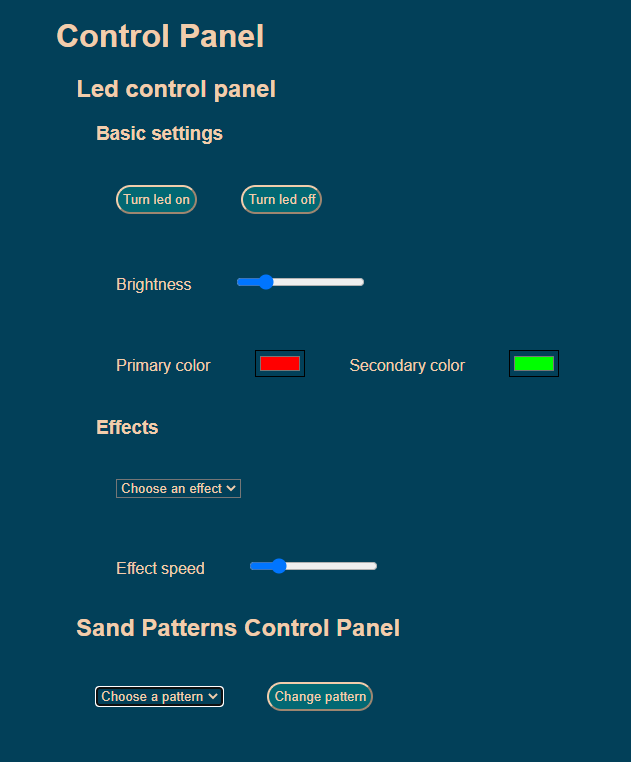
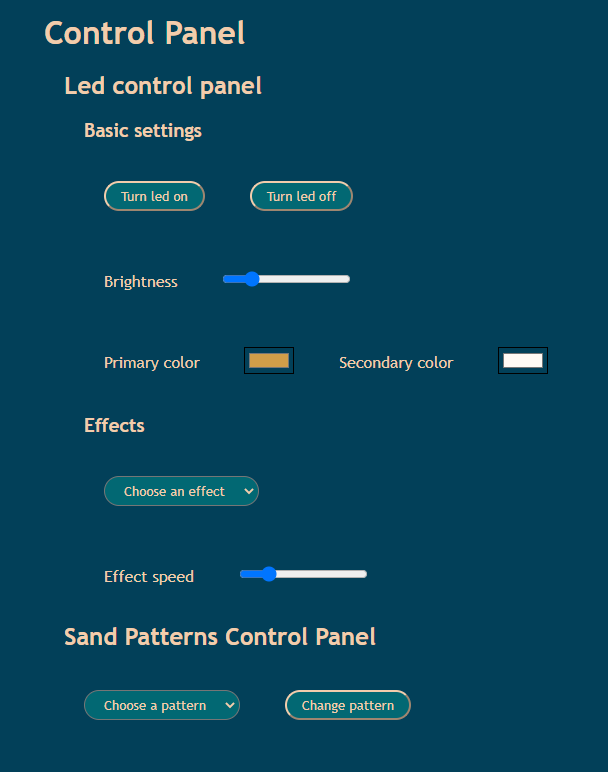
added docker documentation

diff --git a/webinterface/static/client/script.js b/webinterface/static/client/script.js
@@ -4,7 +4,7 @@
 let ledStatus = document.getElementById('led-status');
 let ledButton = document.getElementById('switch-led');
 
-const url = "http://172.16.103.49/"
+const url = "http://172.16.103.132/"
 var brightness_slider = document.getElementById("brightness");
 var brightness = brightness_slider.value;
 
@@ -57,13 +57,13 @@ $.each(patternOptions, function(i){
 });
 
 function setupLed(){
-    const setup_url = url + "win&T=1&A=50&CL=hFF0000&C2=h00FF00&FX=0&SX=50";
+    const setup_url = url + "win&T=1&A=50&CL=hFF0000&C2=h00FF00&FX=0&SX=50&S2=78";
     axios.get(setup_url);
 
 }
 
 function turnLedOn(){
-    const new_url = url + "win&T=1";
+    const new_url = url + "win&T=1&S2=78";
     axios.get(new_url);
 }
 

diff --git a/webinterface/static/client/css/style.css b/webinterface/static/client/css/style.css
@@ -2,12 +2,12 @@
     background-color: #024059;
     color: #F2CDAC;
     margin: 20px;
-    font-family: "Helvetica";
+    font-family: "Trebuchet MS";
 }
 
 button {
     border-radius: 2em;
-    padding: 5px;
+    padding: 5px 15px 5px 15px;
     background-color: #026873;
     border-color:#F2CDAC;
 }
@@ -28,4 +28,11 @@ button:hover {
     flex-direction: row;
     width: 50%;
     justify-self: right;
+}
+
+#options, #sand-pattern-options {
+    border-radius: 2em;
+    padding: 5px 15px 5px 15px;
+    background-color: #026873;
+
 }

diff --git a/webinterface/server/main.py b/webinterface/server/main.py
@@ -9,11 +9,11 @@ from fastapi.staticfiles import StaticFiles
 from fastapi.middleware.cors import CORSMiddleware
 from fastapi.staticfiles import StaticFiles
 import sys
-from vives-sandtable_package_zend import Sender
+#from vives-sandtable_package_zend import Sender
 
 # from pi_code.python.sender import *
 
-#from sendLib import sender 
+#from sendLib im port sender 
 
 sender = Sender()
 
@@ -48,19 +48,19 @@ def read_item(item_id: int, q: Union[str, None] = None):
 def change_pattern(pattern_index: int):
     raspberry.initializeTable()
     time.sleep(1)
-    match pattern_index:
-        case 1:
-            # polygon
-            raspberry.
-        case 2:
-            # star
-            raspberry.
-        case 3:
-            # spiral
-            raspberry.
-        case 4:
-            # Christmas tree
-            raspberry.
+    # match pattern_index:
+    #     case 1:
+    #         # polygon
+    #         raspberry.
+    #     case 2:
+    #         # star
+    #         raspberry.
+    #     case 3:
+    #         # spiral
+    #         raspberry.
+    #     case 4:
+    #         # Christmas tree
+    #         raspberry.
    
     # raspberry.testStar()
     # print(pattern_index)

diff --git a/webinterface/README.md b/webinterface/README.md
@@ -57,3 +57,35 @@ When in the webinterface directory:
 ```pt
 uvicorn server.main:app --reload
 ```
+
+## Docker
+
+To setup docker and docker-compose, run the following commands:
+
+```
+curl -sSL https://get.docker.com | sh
+sudo adduser <user> docker
+sudo systemctl enable docker
+sudo systemctl start docker
+sudo reboot
+```
+
+Test if docker is correctly installed with the "docker --version" command.
+
+Then continue installation of docker  compose with: 
+
+```
+sudo apt-get install libffi-dev libssl-dev
+sudo apt install python3-dev
+sudo apt-get install -y python3 python3-pip
+curl https://sh.rustup.rs -sSf | sh
+source "$HOME/.cargo/env"
+rustup update
+pip3 install setuptools_rust docker-compose
+```
+
+Check if docker-compose is correctly installed with the "docker-compose --version" and "docker ps" commands.
+
+Build with the "docker-compose up --build" command.
+
+Then you can surf to the IP address of the Raspberry Pi and access the webinterface.
